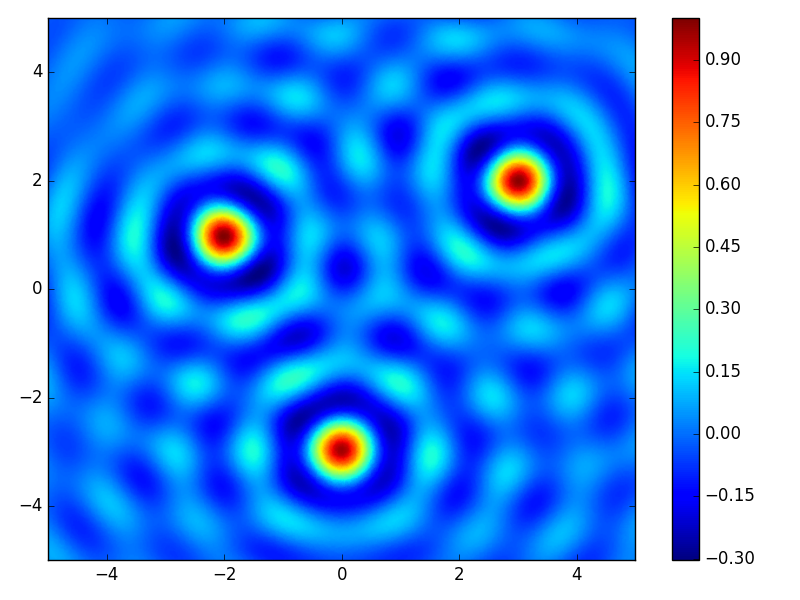
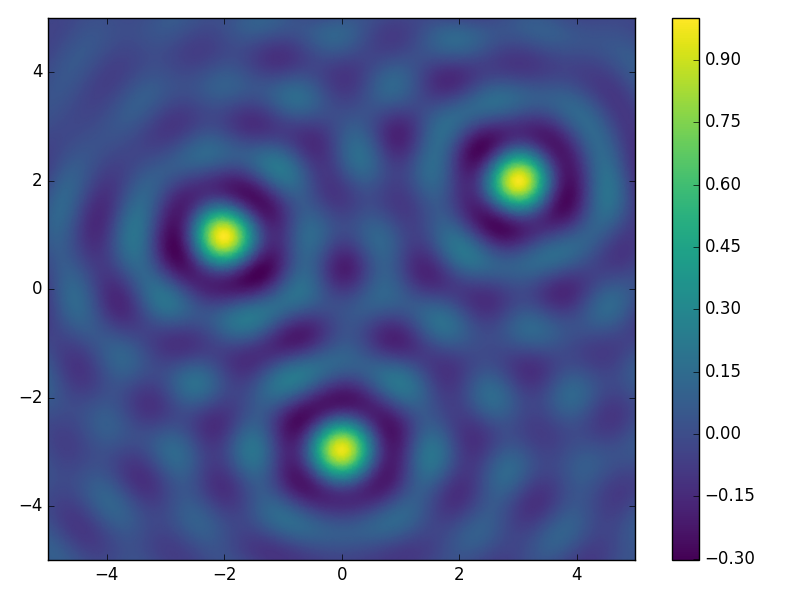
demos use viridis

diff --git a/docs/scripts/interpolate.a.py b/docs/scripts/interpolate.a.py
@@ -20,8 +20,8 @@ I = RBFInterpolant(x_obs,u_obs,penalty=0.001)
 x_itp = np.random.random((10000,2))
 u_itp = I(x_itp)
 
-plt.tripcolor(x_itp[:,0],x_itp[:,1],u_itp,vmin=-1.1,vmax=1.1)
-plt.scatter(x_obs[:,0],x_obs[:,1],s=100,c=u_obs,vmin=-1.1,vmax=1.1)
+plt.tripcolor(x_itp[:,0],x_itp[:,1],u_itp,vmin=-1.1,vmax=1.1,cmap='viridis')
+plt.scatter(x_obs[:,0],x_obs[:,1],s=100,c=u_obs,vmin=-1.1,vmax=1.1,cmap='viridis')
 plt.xlim((0.05,0.95))
 plt.ylim((0.05,0.95))
 plt.colorbar()

diff --git a/docs/scripts/basis.a.py b/docs/scripts/basis.a.py
@@ -39,7 +39,7 @@ itp = menodes(10000,vert,smp)[0] # interpolation points
 soln = phs3(itp,nodes).dot(coeff) # evaluate at the interp points
 
 fig,ax = plt.subplots()
-p = ax.scatter(itp[:,0],itp[:,1],s=20,c=soln,edgecolor='none')
+p = ax.scatter(itp[:,0],itp[:,1],s=20,c=soln,edgecolor='none',cmap='viridis')
 ax.set_aspect('equal')
 ax.plot(nodes[:,0],nodes[:,1],'ko',markersize=4)
 ax.set_xlim((0.025,0.975))

diff --git a/docs/scripts/basis.b.py b/docs/scripts/basis.b.py
@@ -29,7 +29,7 @@ values = sinc_rbf(points,centers,eps=eps)
 
 # plot the sum of each RBF
 fig,ax = plt.subplots()
-p = ax.tripcolor(xf,yf,np.sum(values,axis=1),shading='gouraud')
+p = ax.tripcolor(xf,yf,np.sum(values,axis=1),shading='gouraud',cmap='viridis')
 plt.colorbar(p,ax=ax)
 ax.set_xlim((-5,5))
 ax.set_ylim((-5,5))
